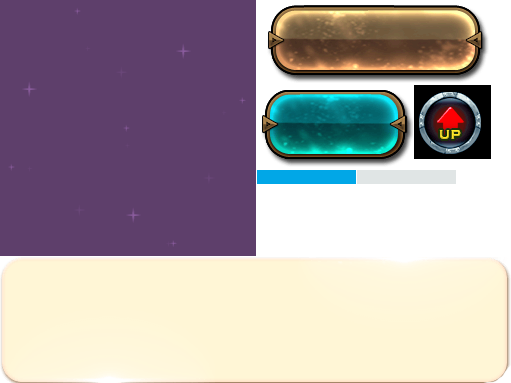
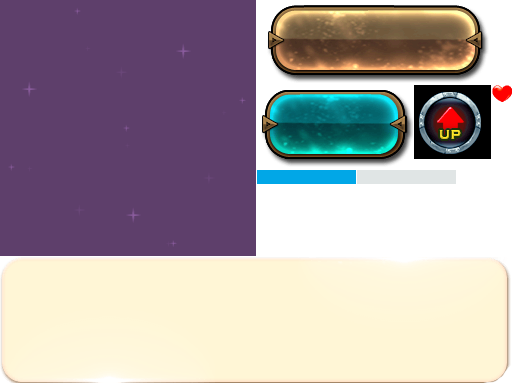
不知道改了啥

diff --git a/src/ui/layaUI.max.all.js b/src/ui/layaUI.max.all.js
@@ -42,7 +42,7 @@ var GameInfoUI=(function(_super){
 
 		}
 
-		GameInfoUI.uiView={"type":"View","props":{"width":400,"height":825},"child":[{"type":"Image","props":{"y":12,"x":4,"width":108,"skin":"resource/ui/myLabel.png","rotation":1,"height":34},"child":[{"type":"Label","props":{"y":-2,"x":6,"wordWrap":true,"width":100,"var":"scoreLabel","valign":"middle","text":"2555555","height":32,"fontSize":20,"color":"#120707"}}]},{"type":"Label","props":{"y":793,"x":7,"width":59,"var":"boomLabel","valign":"middle","text":"炸弹","height":36,"fontSize":20,"color":"#1a22e8","borderColor":"#0c4ae8"}},{"type":"Image","props":{"y":50,"x":5,"width":108,"skin":"resource/ui/myLabel.png","rotation":1,"height":34},"child":[{"type":"Label","props":{"y":0,"x":35,"wordWrap":true,"width":70,"var":"upgradesphereLabel","valign":"middle","text":"255","height":32,"fontSize":20,"color":"#120707"}},{"type":"Image","props":{"y":0,"x":-2,"skin":"resource/role/upgrade.png"}}]},{"type":"Sprite","props":{"y":27,"x":252,"var":"heroHpPos"}}]};
+		GameInfoUI.uiView={"type":"View","props":{"width":400,"height":825},"child":[{"type":"Image","props":{"y":12,"x":4,"width":108,"skin":"resource/ui/myLabel.png","rotation":1,"height":34},"child":[{"type":"Label","props":{"y":-2,"x":6,"wordWrap":true,"width":100,"var":"scoreLabel","valign":"middle","text":"2555555","height":32,"fontSize":20,"color":"#120707"}}]},{"type":"Label","props":{"y":793,"x":7,"width":59,"var":"boomLabel","valign":"middle","text":"炸弹","height":36,"fontSize":20,"color":"#1a22e8","borderColor":"#0c4ae8"}},{"type":"Image","props":{"y":50,"x":5,"width":108,"skin":"resource/ui/myLabel.png","rotation":1,"height":34},"child":[{"type":"Label","props":{"y":0,"x":35,"wordWrap":true,"width":70,"var":"upgradesphereLabel","valign":"middle","text":"255","height":32,"fontSize":20,"color":"#120707"}},{"type":"Image","props":{"y":0,"x":-2,"skin":"resource/role/upgrade.png"}}]},{"type":"Image","props":{"y":33,"x":241,"width":102,"skin":"resource/ui/myLabel.png","height":10},"child":[{"type":"Sprite","props":{"y":-1,"x":-1,"width":142,"var":"heroHpPos","height":32}},{"type":"Image","props":{"y":-6,"x":-17,"width":22,"skin":"resource/ui/hpLogo.png","height":22}}]}]};
 		return GameInfoUI;
 	})(View);
 var HomePageUI=(function(_super){
@@ -63,7 +63,7 @@ var HomePageUI=(function(_super){
 
 		}
 
-		HomePageUI.uiView={"type":"View","props":{"width":400,"height":825},"child":[{"type":"Label","props":{"y":283,"x":102,"width":182,"var":"startGameLabel","text":"开始游戏","height":62,"fontSize":45,"color":"#cd1b18"}},{"type":"Label","props":{"y":369,"x":110,"width":182,"var":"upgradeAttriLabel","text":"升级属性","height":62,"fontSize":45,"color":"#cd1b18"}}]};
+		HomePageUI.uiView={"type":"View","props":{"width":400,"height":825},"child":[{"type":"Image","props":{"y":-2,"x":-3,"width":533,"skin":"resource/role/background.png","height":852}},{"type":"Image","props":{"y":230,"x":63,"width":289,"skin":"resource/ui/myLabel.png","height":101},"child":[{"type":"Label","props":{"y":28,"x":50,"width":182,"var":"startGameLabel","text":"开始游戏","height":62,"fontSize":45,"color":"#cd1b18"}}]},{"type":"Image","props":{"y":344,"x":62,"width":289,"skin":"resource/ui/myLabel.png","height":101},"child":[{"type":"Label","props":{"y":25,"x":48,"width":182,"var":"upgradeAttriLabel","text":"升级属性","height":62,"fontSize":45,"color":"#cd1b18"}}]}]};
 		return HomePageUI;
 	})(View);
 var UpgradeUI=(function(_super){

diff --git a/src/obj/GameHolder.js b/src/obj/GameHolder.js
@@ -31,39 +31,43 @@ var GameHolder = (function () {
         appearBossIndex: 0,//boss出现的下标
     }
 
+    GameHolder.playInfos = {
+
+    };
+
     GameHolder.init = function(opts) {
-        this.playUI = opts.playUI;
-        this.score = 0;
-        this.level = 0;
-        this.nextLevelScore = 10;
-        this.upgradeSphere = 0;
+        GameHolder.playInfos.playUI = opts.playUI;
+        GameHolder.playInfos.score = 0;
+        GameHolder.playInfos.level = 0;
+        GameHolder.playInfos.nextLevelScore = 10;
+        GameHolder.playInfos.upgradeSphere = 0;
         this.state = GameHolder.stateEnum.PLAY;
         this.playState = GameHolder.playStateEnum.NORMAL;
     }
 
     GameHolder.increaseScore = function(value){
-        this.score += value;
-        if(this.score > this.nextLevelScore){
-            this.level++;
-            this.nextLevelScore += this.nextLevelScore * 0.5;
+        GameHolder.playInfos.score += value;
+        if(GameHolder.playInfos.score > GameHolder.playInfos.nextLevelScore){
+            GameHolder.playInfos.level++;
+            GameHolder.playInfos.nextLevelScore += GameHolder.playInfos.nextLevelScore * 0.5;
         }
-        if(this.score > GameHolder.appearBossScores[GameHolder.gameData.appearBossIndex] && this.playState === this.playStateEnum.NORMAL) {
+        if(GameHolder.playInfos.score > GameHolder.appearBossScores[GameHolder.gameData.appearBossIndex] && this.playState === this.playStateEnum.NORMAL) {
             this.playState = this.playStateEnum.SHOW_BOSS;
             GameHolder.gameData.appearBossIndex++;
         }
-        this.playUI.showScore(this.score);
+        GameHolder.playInfos.playUI.showScore(GameHolder.playInfos.score);
     }
 
     GameHolder.getRatioHp = function(){
-        if (this.level >= GameHolder.ratio.hp.length){
+        if (GameHolder.playInfos.level >= GameHolder.ratio.hp.length){
             return 2;
         }
-        return GameHolder.ratio.hp[this.level];
+        return GameHolder.ratio.hp[GameHolder.playInfos.level];
     }
 
     GameHolder.increaseUpgradeSphere = function(value){
-        this.upgradeSphere += value;
-        this.playUI.showUpgradesphere(this.upgradeSphere);
+        GameHolder.playInfos.upgradeSphere += value;
+        GameHolder.playInfos.playUI.showUpgradesphere(GameHolder.playInfos.upgradeSphere);
     }
 
     return GameHolder;

diff --git a/src/myUI/PlayUI.js b/src/myUI/PlayUI.js
@@ -1,10 +1,10 @@
 var PlayUI = (function(_super){
-    function PlayUI(){
+    function PlayUI(opts){
         PlayUI.super(this);
         //炸弹事件
         this.boomLabel.on(Laya.Event.CLICK, this, this.onBoom);
         this.heroHpBar = new Bar();
-        this.heroHpBar.init({width: 100, borderWidth: 4, maxValue: 100});
+        this.heroHpBar.init({width: 100, borderWidth: 4, maxValue: opts.maxHeroHp});
         this.heroHpPos.addChild(this.heroHpBar);
         this.reset();
     }
@@ -49,8 +49,7 @@ var PlayUI = (function(_super){
 
     //显示血量
     _proto.showHp = function(value){
-        this.hpLabel.text = "HP:" + value;
-        this.heroHpBar.clean
+        this.heroHpBar.setValue(value);
     }
     //显示升级球数量
     _proto.showUpgradesphere = function(value){

diff --git a/src/obj/role/hero/Hero.js b/src/obj/role/hero/Hero.js
@@ -9,6 +9,7 @@ var Hero = (function (_super) {
         var fighter = CustHolder.fighters[0];
         this.atk = fighter.atk;
         this.hp = fighter.hp;
+        this.maxHp = fighter.hp;
         this.shootInterval = fighter.shootSpeed;
         //初始位置
         this.x = SysConfig.SCREEN_WIDTH / 2;
@@ -85,7 +86,13 @@ var Hero = (function (_super) {
      * from: 攻击源
      */
     _proto.hitAction = function(loseHp) {
-        this.hp -= loseHp;
+        this.editHp(-1 * loseHp);
+    }
+
+    _proto.editHp = function(value){
+        this.hp += value;
+        console.log(this.hp);
+        GameHolder.playInfos.playUI.showHp(this.hp);
     }
 
     /**

diff --git a/src/obj/ObjectHolder.js b/src/obj/ObjectHolder.js
@@ -12,7 +12,7 @@ var ObjectHolder = (function () {
         this.enemyFactory = new BaseEnemyFactory();
         this.itemBox = new Laya.Sprite();
         this.hero = new Hero();
-        this.playUI = new PlayUI();
+        this.playUI = new PlayUI({'maxHeroHp': this.hero.maxHp});
     }
 
     ObjectHolder.reset = function() {
